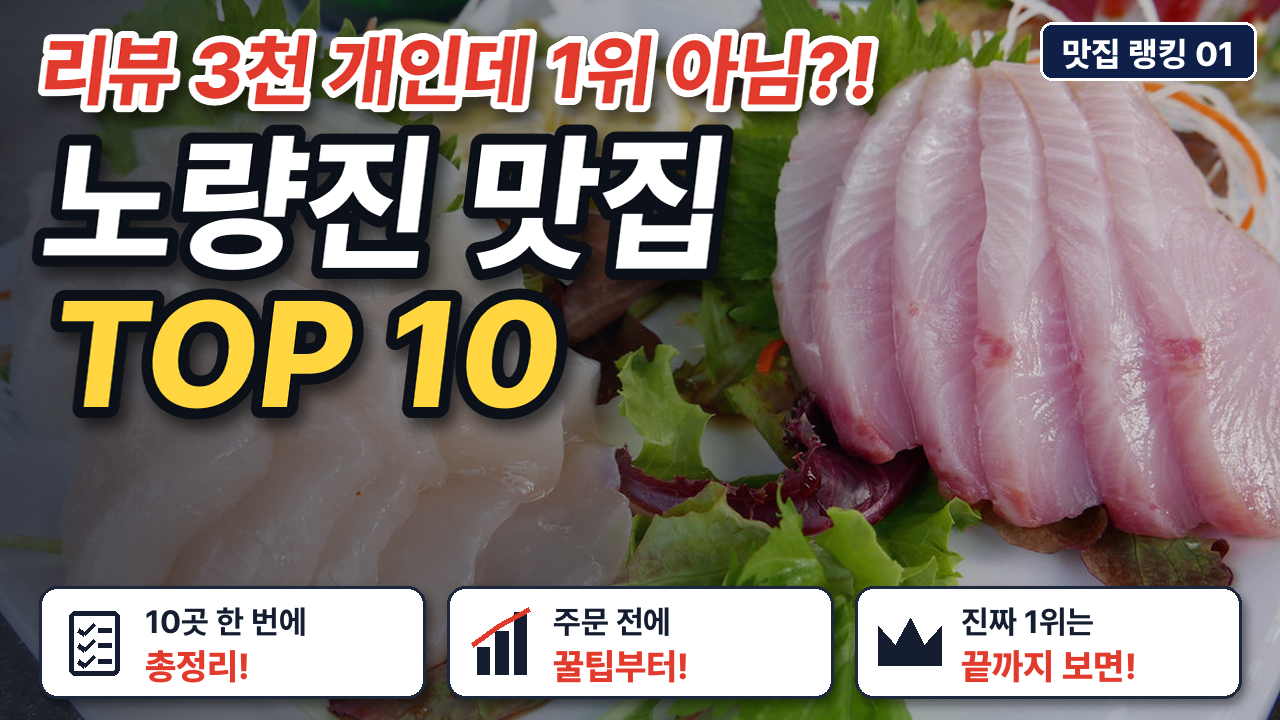
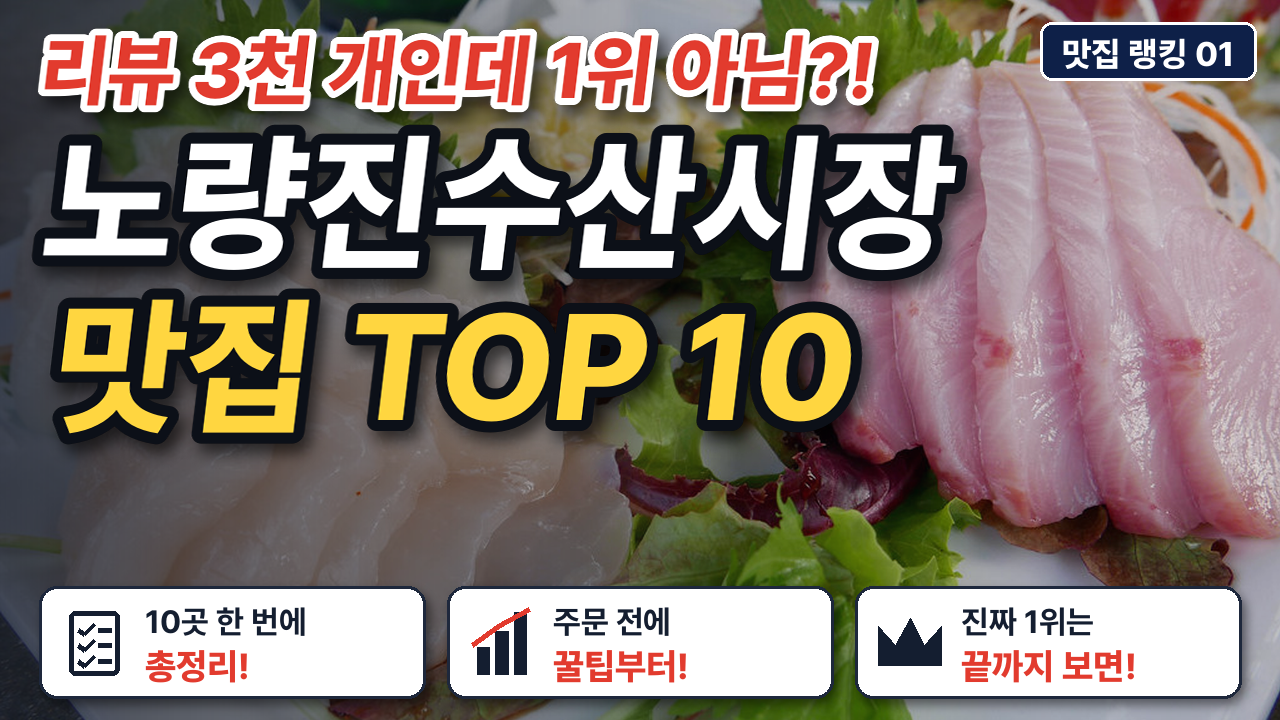
ranking-video v2.0.1: 썸네일 제목 자동 크기 맞춤, 노량진수산시장 맛집 TOP 10으로 수정
Claude-Session: https://claude.ai/code/session_01NcWaxmMVV38DikctvomFGM

Changed region(s): [[0.0312, 0.1528, 0.7812, 0.6417]]

diff --git a/.claude/skills/ranking-video/scripts/make_graphics.py b/.claude/skills/ranking-video/scripts/make_graphics.py
@@ -212,9 +212,15 @@ def thumbnail_bold(photo, T, accent):
     red, yellow = (226, 59, 46), (255, 214, 64)
     top = _skew_text((W2, 200), T["top"], F(78, "ExtraBold"), red, 7, (255, 255, 255))
     im.alpha_composite(top, (28, 22))
-    m1 = _skew_text((W2, 260), T["main"], F(150, "ExtraBold"), (255, 255, 255), 11, (12, 16, 24))
+    def fit(text, size=150, maxw=1180):  # 긴 제목은 화면 폭에 맞게 글자 크기를 자동으로 줄임
+        while size > 70:
+            l, t_, r, b_ = ImageDraw.Draw(Image.new("L", (1, 1))).textbbox((0, 0), text, font=F(size, "ExtraBold"), stroke_width=11)
+            if r - l + 60 <= maxw: break
+            size -= 6
+        return F(size, "ExtraBold")
+    m1 = _skew_text((W2 + 200, 260), T["main"], fit(T["main"]), (255, 255, 255), 11, (12, 16, 24))
     im.alpha_composite(m1, (22, 118))
-    m2 = _skew_text((W2, 260), T["sub"], F(150, "ExtraBold"), yellow, 11, (12, 16, 24))
+    m2 = _skew_text((W2 + 200, 260), T["sub"], fit(T["sub"]), yellow, 11, (12, 16, 24))
     im.alpha_composite(m2, (40, 282))
     # 오른쪽 위 시리즈 배지
     d = ImageDraw.Draw(im); bf = F(34, "ExtraBold"); l, t_, r, b = d.textbbox((0, 0), T["badge"], font=bf)
